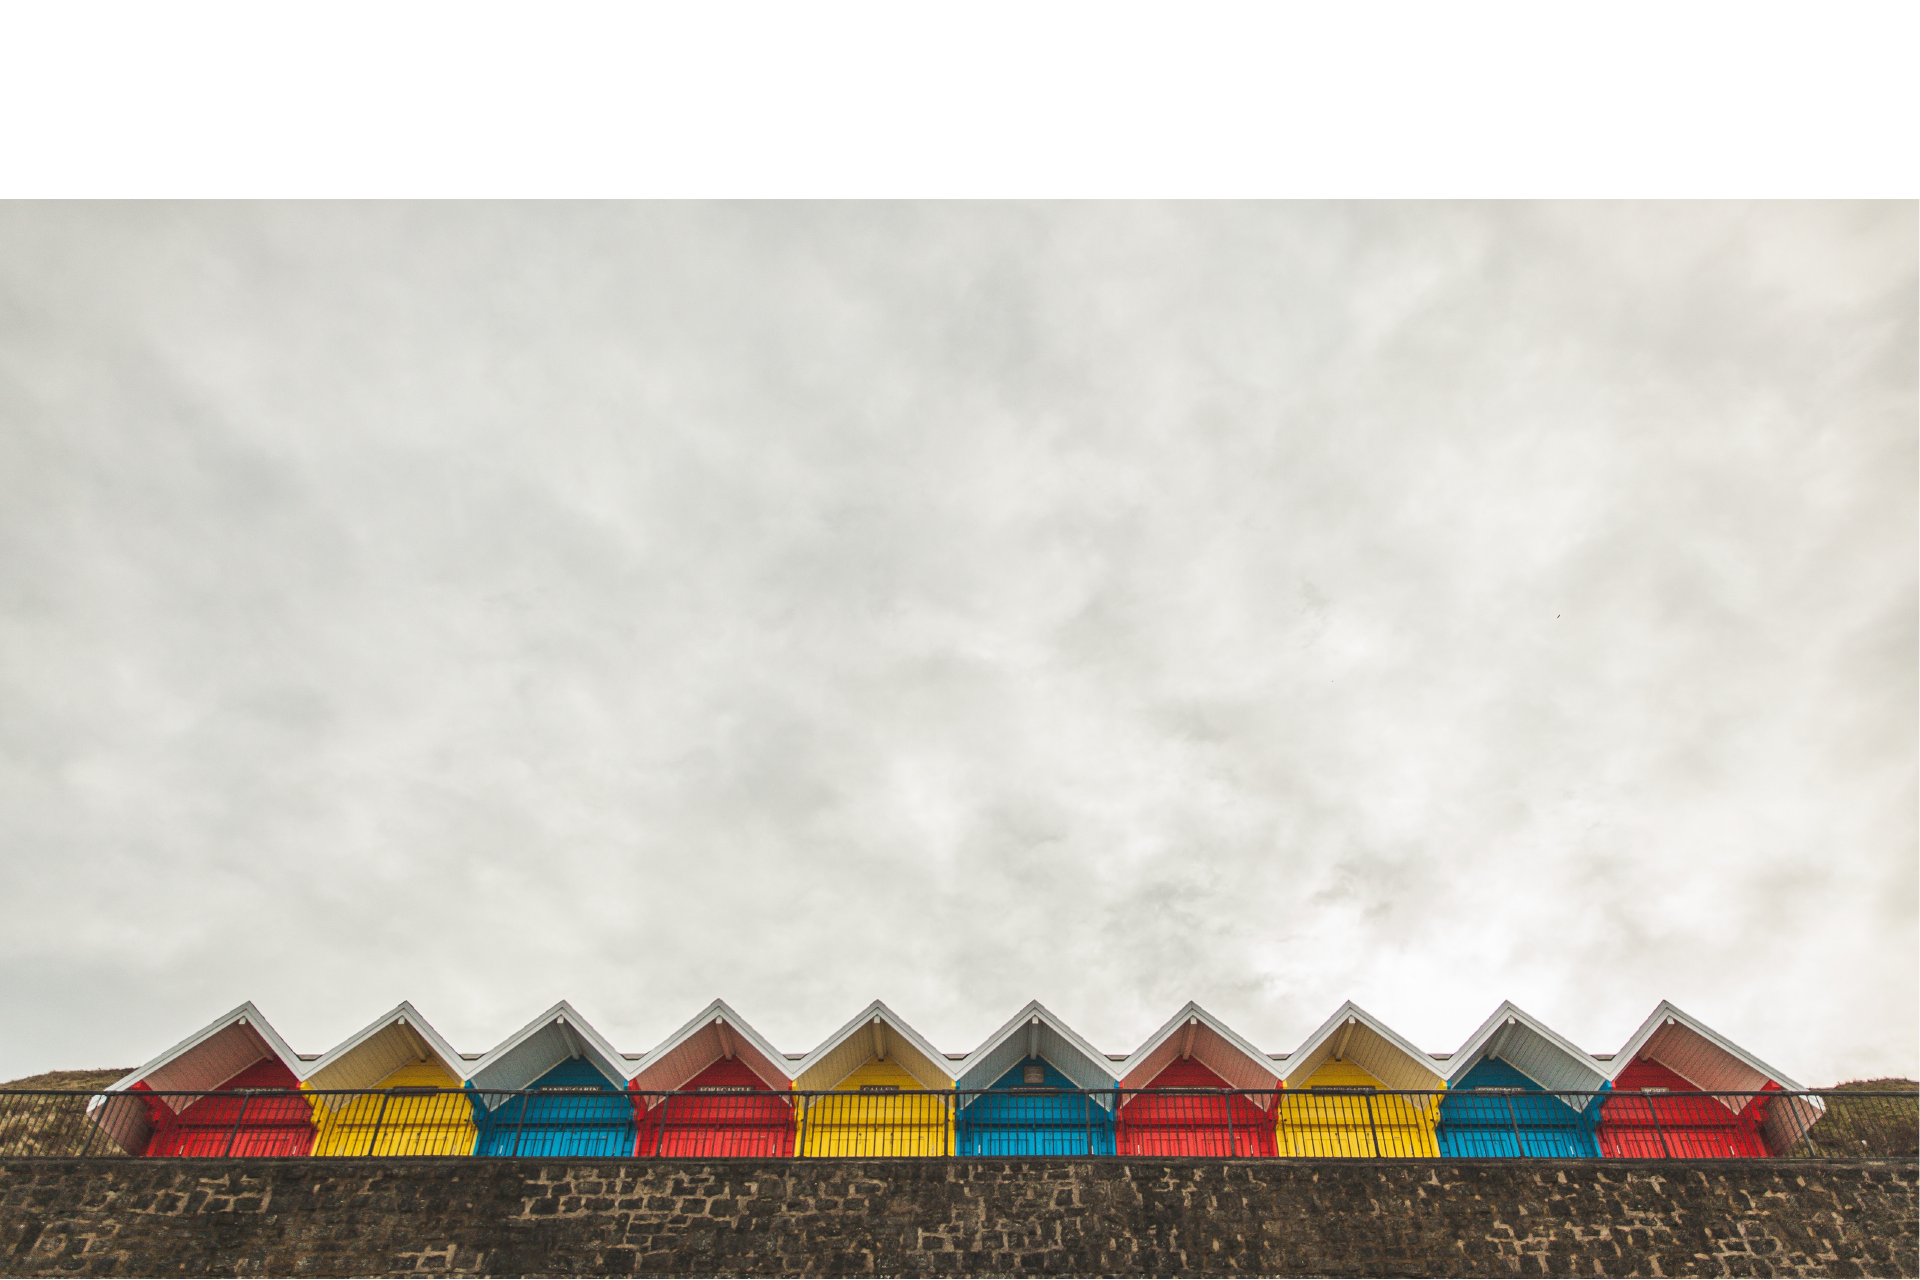
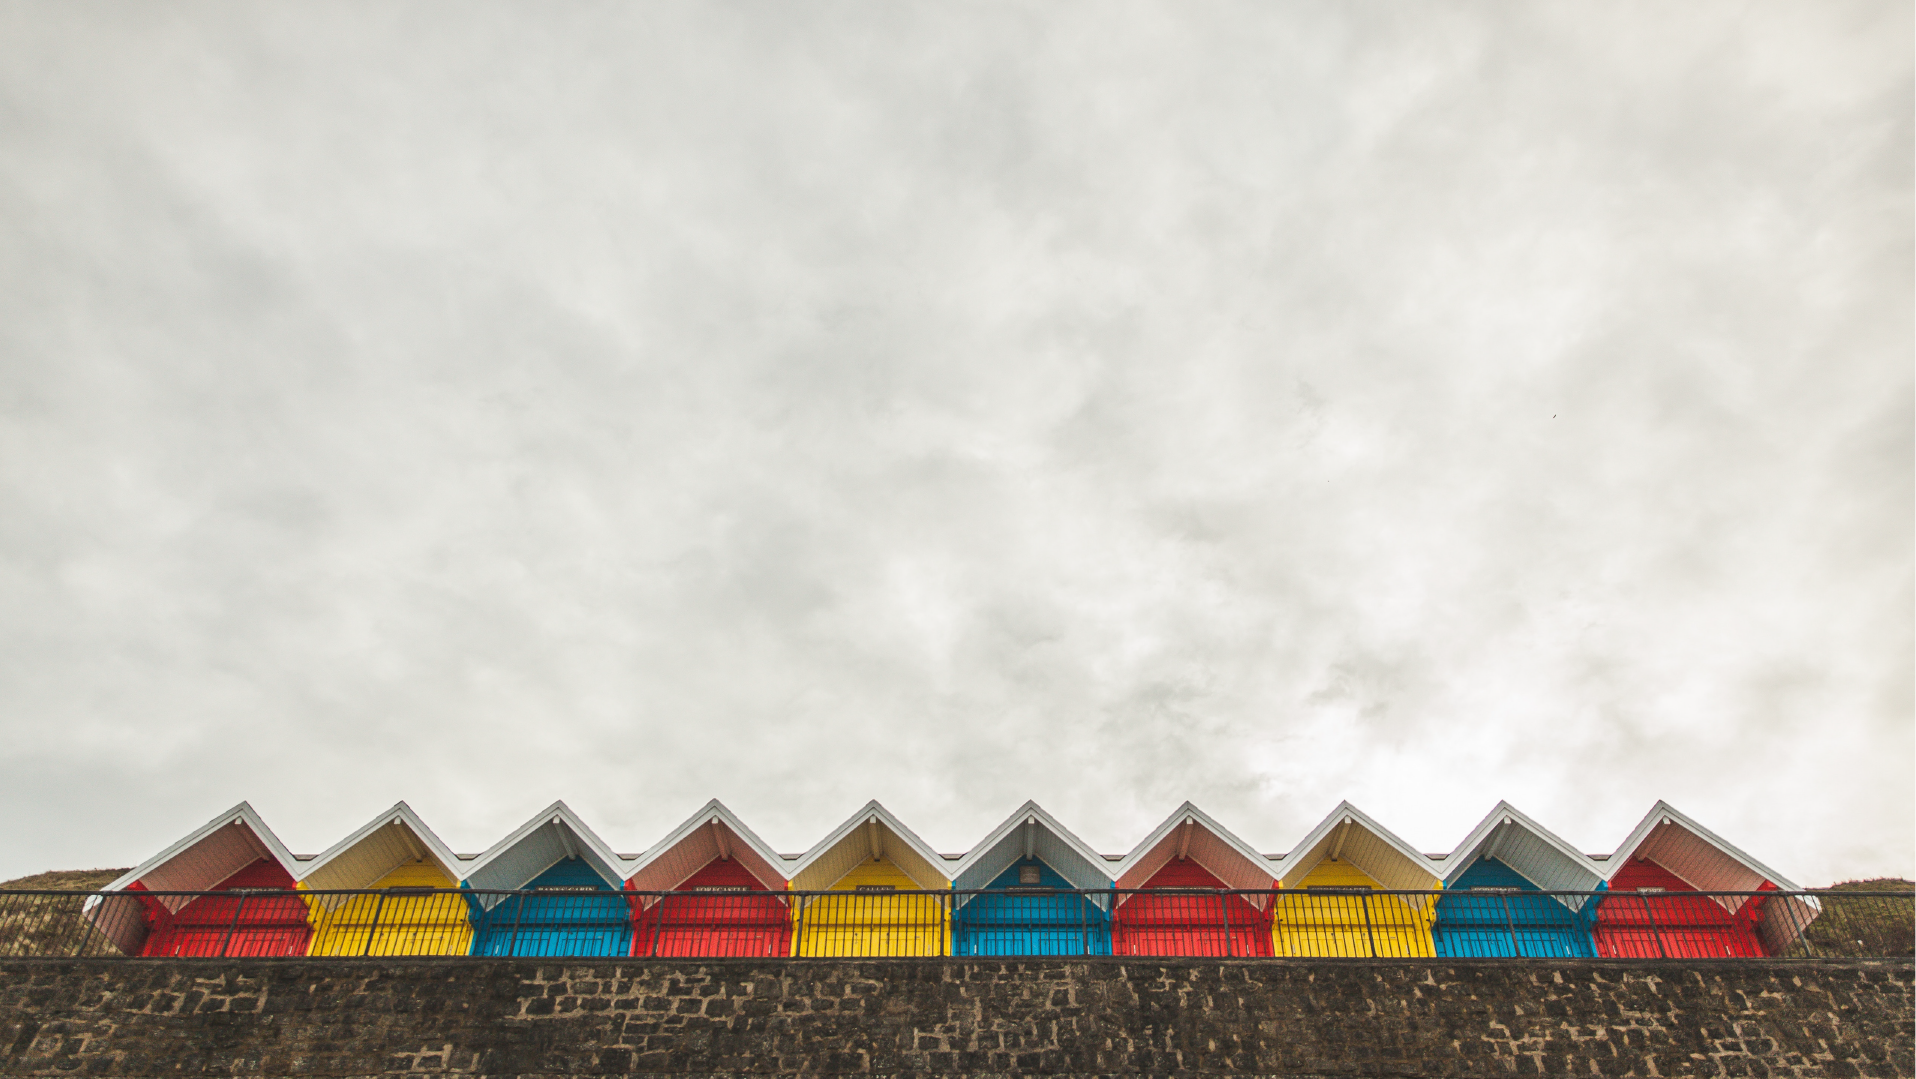
Ändrade loggan, färgen på navbaren, och lade till backgrundsbild

diff --git a/index.html b/index.html
@@ -5,20 +5,24 @@
     <meta name="viewport" content="width=device-width, initial-scale=1.0">
     <meta http-equiv="X-UA-Compatible" content="ie=edge">
     <link rel="stylesheet" href="https://stackpath.bootstrapcdn.com/bootstrap/4.1.3/css/bootstrap.min.css" integrity="sha384-MCw98/SFnGE8fJT3GXwEOngsV7Zt27NXFoaoApmYm81iuXoPkFOJwJ8ERdknLPMO" crossorigin="anonymous">
-    <link rel="stylesheet" href="style.css">
+    <link rel="stylesheet" href="css/style.css">
     <title>Document</title>
   </head>
   <body>
-    <div class="pos-f-t">
-      <nav class="navbar navbar-dark  bg-dark"><a class="nav-link dropdown-toggler" data-toggle="dropdown" data-target="#navbarToggle"><span class="navbar-toggler-icon"></span></a>
-        <div class="dropdown-menu bg-dark"><a class="dropdown-item text-white" href="index.html"> 
-            <h5>hem</h5></a><a class="dropdown-item text-white" href="#"> 
-            <h5>page 2</h5></a><a class="dropdown-item text-white" href="#">
-            <h5>page 3</h5></a></div><a href="index.html"><img src="bilder/logo.png" alt="logo" width="225" height="75"></a>
-      </nav>
-    </div>
+    <nav class="navbar navbar-dark bg-primary"><a class="nav-link dropdown-toggler" data-toggle="dropdown" data-target="#navbarToggle"><span class="navbar-toggler-icon"></span></a>
+      <div class="dropdown-menu bg-primary"><a class="dropdown-item text-white" href="index.html"> 
+          <h5>hem</h5></a><a class="dropdown-item text-white" href="#"> 
+          <h5>page 2</h5></a><a class="dropdown-item text-white" href="#">
+          <h5>page 3</h5></a></div><a href="index.html"><img src="bilder/logo_1.svg" alt="logo" width="225" height="75"></a>
+    </nav>
+    <div class="test"></div>
+    <main class="container">
+      <h1>main sidan</h1>
+    </main>
     <footer class="footer"> 
-      <div class="container"><span class="text-danger">kgunillak@gmail.com </span><br>Brogatan 5, Umeå</div>
+      <div class="container">
+        <adress class="text-danger">Mail: kgunillak@gmail.com <br>Adress: Brogatan 5, Umeå</adress>
+      </div>
     </footer>
     <script src="https://code.jquery.com/jquery-3.3.1.slim.min.js" integrity="sha384-q8i/X+965DzO0rT7abK41JStQIAqVgRVzpbzo5smXKp4YfRvH+8abtTE1Pi6jizo" crossorigin="anonymous"></script>
     <script src="https://cdnjs.cloudflare.com/ajax/libs/popper.js/1.14.3/umd/popper.min.js" integrity="sha384-ZMP7rVo3mIykV+2+9J3UJ46jBk0WLaUAdn689aCwoqbBJiSnjAK/l8WvCWPIPm49" crossorigin="anonymous"></script>

diff --git a/layout.html b/layout.html
@@ -5,20 +5,20 @@
     <meta name="viewport" content="width=device-width, initial-scale=1.0">
     <meta http-equiv="X-UA-Compatible" content="ie=edge">
     <link rel="stylesheet" href="https://stackpath.bootstrapcdn.com/bootstrap/4.1.3/css/bootstrap.min.css" integrity="sha384-MCw98/SFnGE8fJT3GXwEOngsV7Zt27NXFoaoApmYm81iuXoPkFOJwJ8ERdknLPMO" crossorigin="anonymous">
-    <link rel="stylesheet" href="style.css">
+    <link rel="stylesheet" href="css/style.css">
     <title>Document</title>
   </head>
   <body>
-    <div class="pos-f-t">
-      <nav class="navbar navbar-dark  bg-dark"><a class="nav-link dropdown-toggler" data-toggle="dropdown" data-target="#navbarToggle"><span class="navbar-toggler-icon"></span></a>
-        <div class="dropdown-menu bg-dark"><a class="dropdown-item text-white" href="index.html"> 
-            <h5>hem</h5></a><a class="dropdown-item text-white" href="#"> 
-            <h5>page 2</h5></a><a class="dropdown-item text-white" href="#">
-            <h5>page 3</h5></a></div><a href="index.html"><img src="bilder/logo.png" alt="logo" width="225" height="75"></a>
-      </nav>
-    </div>
+    <nav class="navbar navbar-dark bg-primary"><a class="nav-link dropdown-toggler" data-toggle="dropdown" data-target="#navbarToggle"><span class="navbar-toggler-icon"></span></a>
+      <div class="dropdown-menu bg-primary"><a class="dropdown-item text-white" href="index.html"> 
+          <h5>hem</h5></a><a class="dropdown-item text-white" href="#"> 
+          <h5>page 2</h5></a><a class="dropdown-item text-white" href="#">
+          <h5>page 3</h5></a></div><a href="index.html"><img src="bilder/logo_1.svg" alt="logo" width="225" height="75"></a>
+    </nav>
     <footer class="footer"> 
-      <div class="container"><span class="text-danger">kgunillak@gmail.com </span><br>Brogatan 5, Umeå</div>
+      <div class="container">
+        <adress class="text-danger">Mail: kgunillak@gmail.com <br>Adress: Brogatan 5, Umeå</adress>
+      </div>
     </footer>
     <script src="https://code.jquery.com/jquery-3.3.1.slim.min.js" integrity="sha384-q8i/X+965DzO0rT7abK41JStQIAqVgRVzpbzo5smXKp4YfRvH+8abtTE1Pi6jizo" crossorigin="anonymous"></script>
     <script src="https://cdnjs.cloudflare.com/ajax/libs/popper.js/1.14.3/umd/popper.min.js" integrity="sha384-ZMP7rVo3mIykV+2+9J3UJ46jBk0WLaUAdn689aCwoqbBJiSnjAK/l8WvCWPIPm49" crossorigin="anonymous"></script>

diff --git a/nav.html b/nav.html
@@ -1,12 +1,7 @@
 
-<div class="pos-f-t">
-  <nav class="navbar navbar-dark  bg-dark"><a class="nav-link dropdown-toggler" data-toggle="dropdown" data-target="#navbarToggle"><span class="navbar-toggler-icon"></span></a>
-    <div class="dropdown-menu bg-dark"><a class="dropdown-item text-white" href="index.html"> 
-        <h5>hem</h5></a><a class="dropdown-item text-white" href="#"> 
-        <h5>page 2</h5></a><a class="dropdown-item text-white" href="#">
-        <h5>page 3</h5></a></div><a href="index.html"><img src="bilder/logo.png" alt="logo" width="225" height="75"/></a>
-  </nav>
-</div>
-<footer class="footer"> 
-  <div class="container"><span class="text-danger">kgunillak@gmail.com </span><br/>Brogatan 5, Umeå</div>
-</footer>
+<nav class="navbar navbar-dark bg-primary"><a class="nav-link dropdown-toggler" data-toggle="dropdown" data-target="#navbarToggle"><span class="navbar-toggler-icon"></span></a>
+  <div class="dropdown-menu bg-primary"><a class="dropdown-item text-white" href="index.html"> 
+      <h5>hem</h5></a><a class="dropdown-item text-white" href="#"> 
+      <h5>page 2</h5></a><a class="dropdown-item text-white" href="#">
+      <h5>page 3</h5></a></div><a href="index.html"><img src="bilder/logo_1.svg" alt="logo" width="225" height="75"/></a>
+</nav>

diff --git a/css/style.css b/css/style.css
@@ -1,0 +1,27 @@
+.footer {
+    position: absolute;
+    bottom: 0;
+    width: 100%;
+    height: 60px; /* Set the fixed height of the footer here */
+    line-height: 60px; /* Vertically center the text there */
+    background-color: #f5f5f5;
+  }
+
+.test{
+  height: 100%;
+  width: 100%;
+  position: absolute;
+  left: 0;
+  top: 0;
+  z-index: -2;
+  background-image: url("../bilder/bg.png");
+  height: 100%;
+  width: 100%;
+  background-position: center;
+  background-repeat: no-repeat;
+  background-size: cover;
+  }
+
+div.bg-primary, nav.bg-primary{
+  background-color:#052f5f !important;
+}

diff --git a/footer.html b/footer.html
@@ -1,0 +1,6 @@
+
+<footer class="footer"> 
+  <div class="container">
+    <adress class="text-danger">Mail: kgunillak@gmail.com <br/>Adress: Brogatan 5, Umeå</adress>
+  </div>
+</footer>
